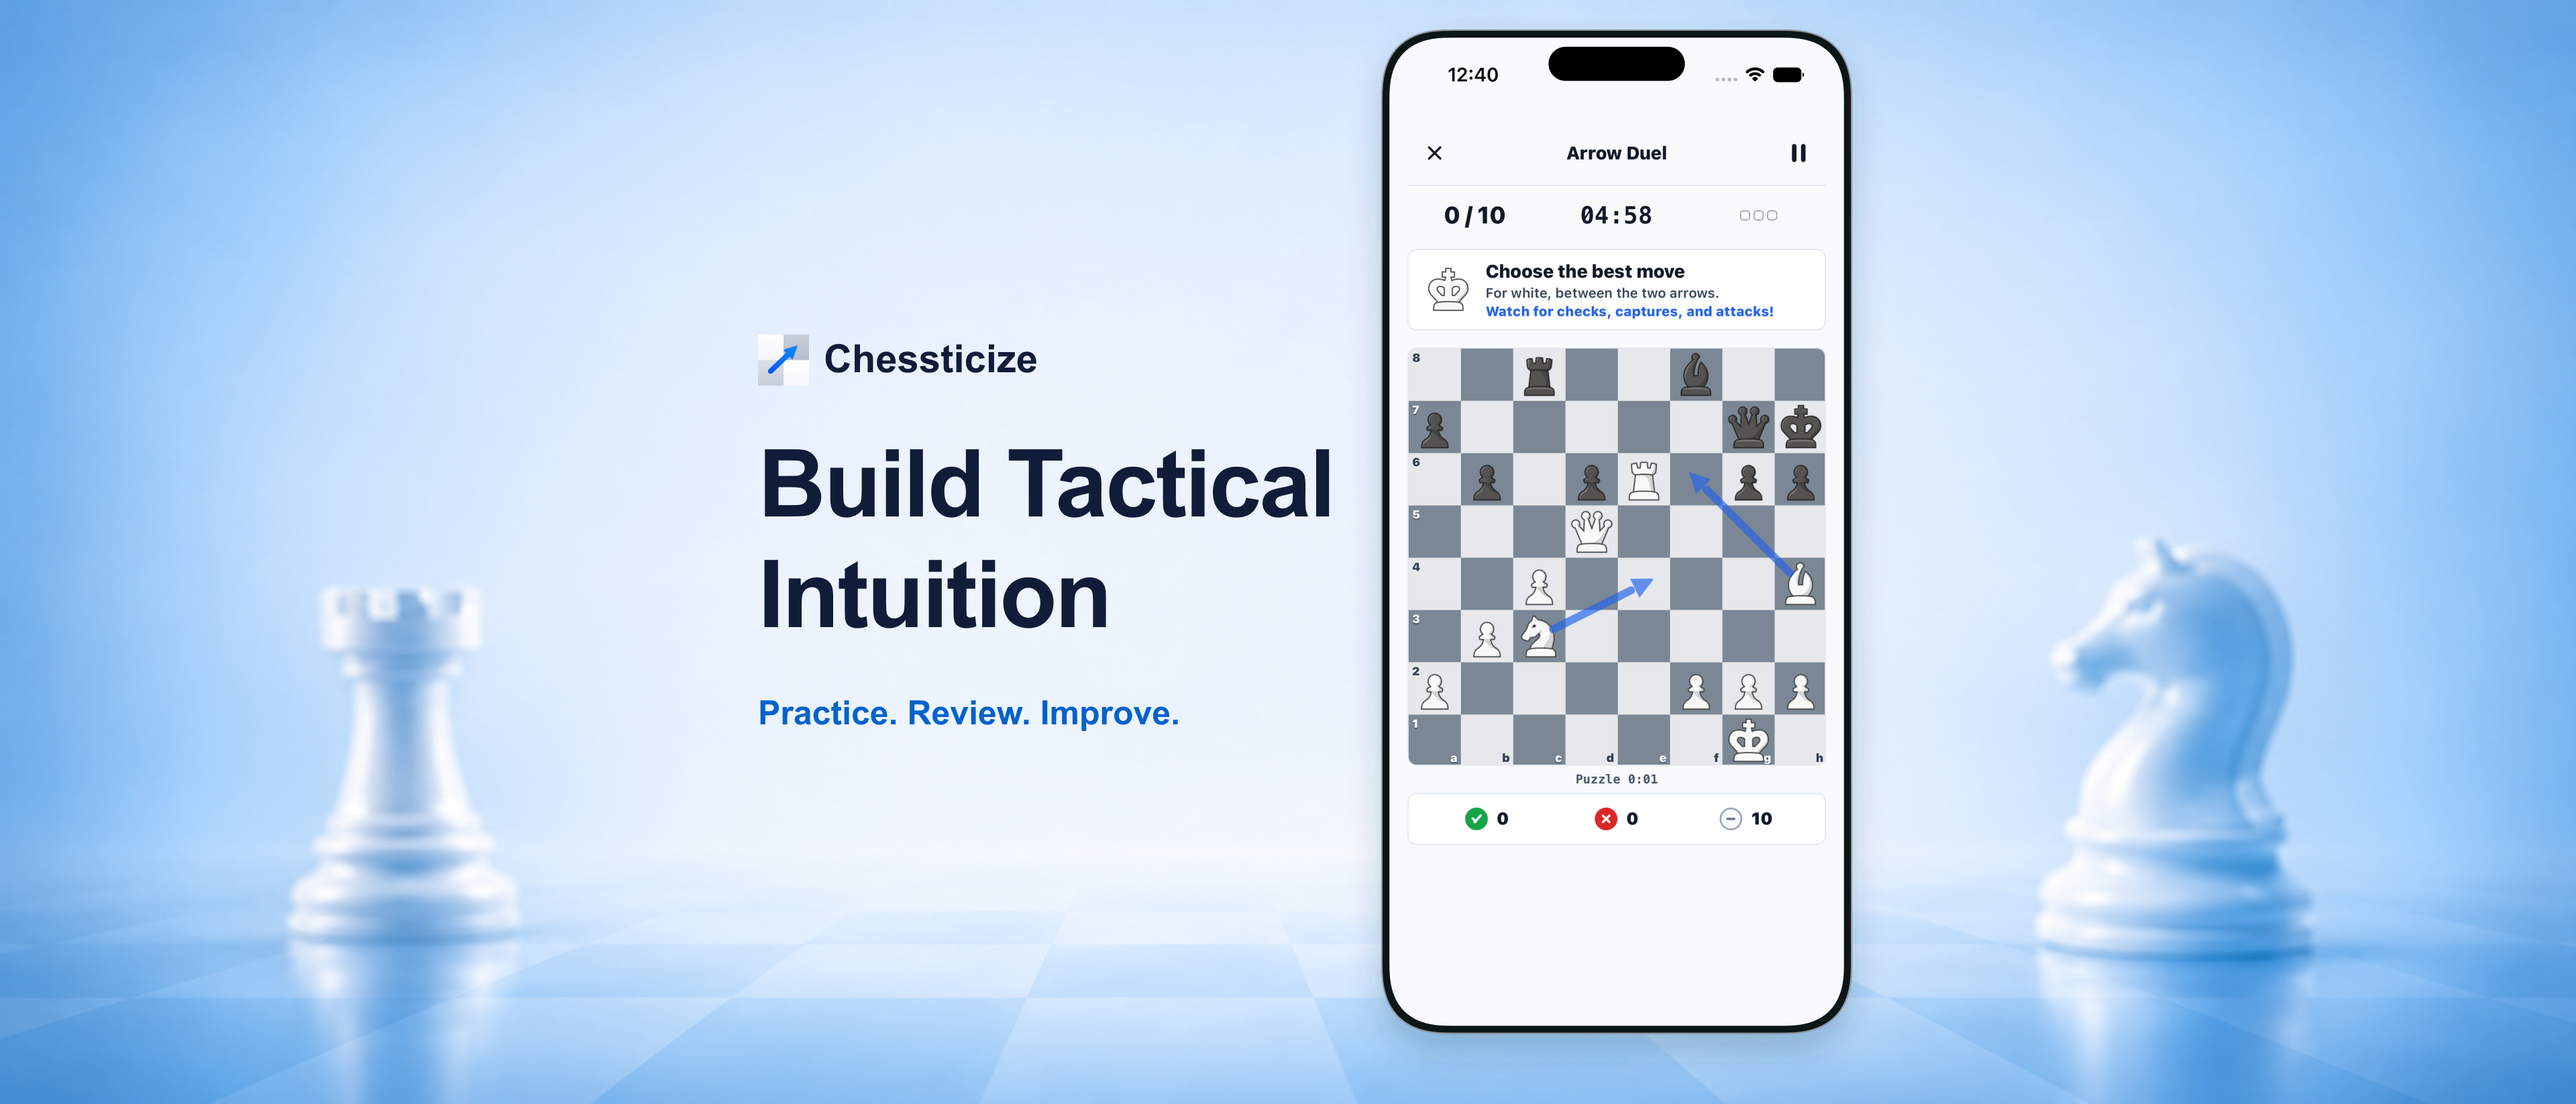
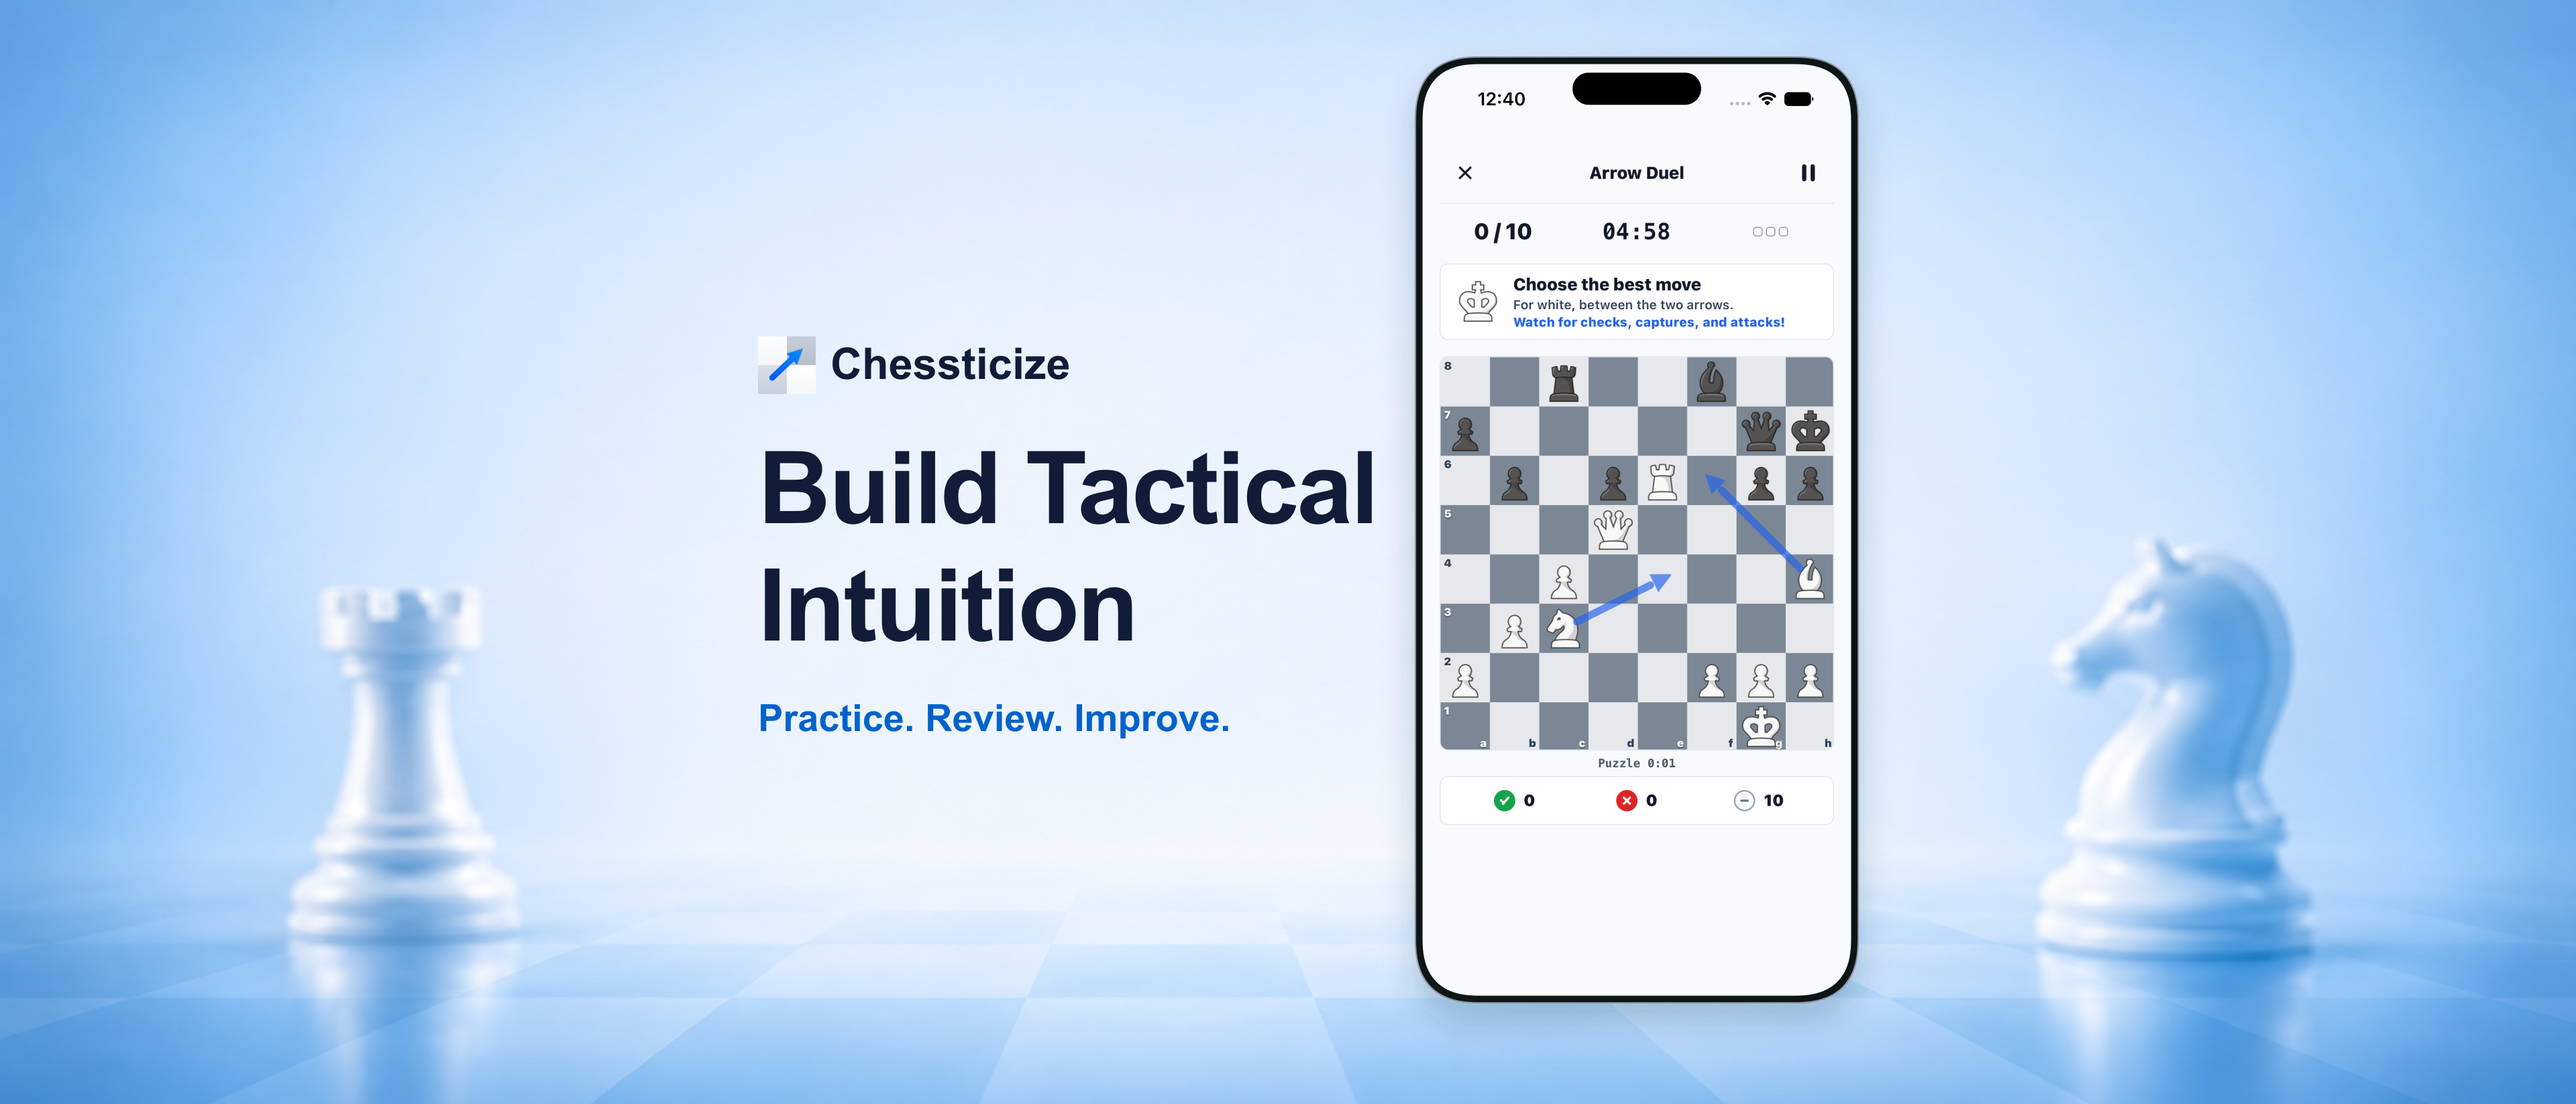
design: enlarge header typography and lock approved search art

Changed region(s): [[0.2812, 0.0, 0.7188, 0.9605], [0.2812, 0.6197, 0.4688, 0.6817], [0.2812, 0.3098, 0.4375, 0.3718]]

diff --git a/apps/mobile/store-assets/apple/creative-v3/README.md b/apps/mobile/store-assets/apple/creative-v3/README.md
@@ -68,7 +68,12 @@ dependency or native code changes are included.
 
 ## Delivery
 
-These images replace v2 as the current **design review candidates** in the PR.
+Search Results was **owner-approved on 2026-11-10** and is locked at SHA-256
[1 lines of base64/hex data omitted]
+Its PNG and preview files remain unchanged during Header revisions.
+Header remains a design review candidate; its left typography is enlarged
+and the handset shifted right while keeping the complete board in the safe area.
+These images supersede v2 in the PR.
 They have not been uploaded, submitted, selected in live placements or
 published. The rejected v1 standalone asset submission remains withdrawn.
 The existing Android graphic and approved 1.6.0 app have not been changed.
